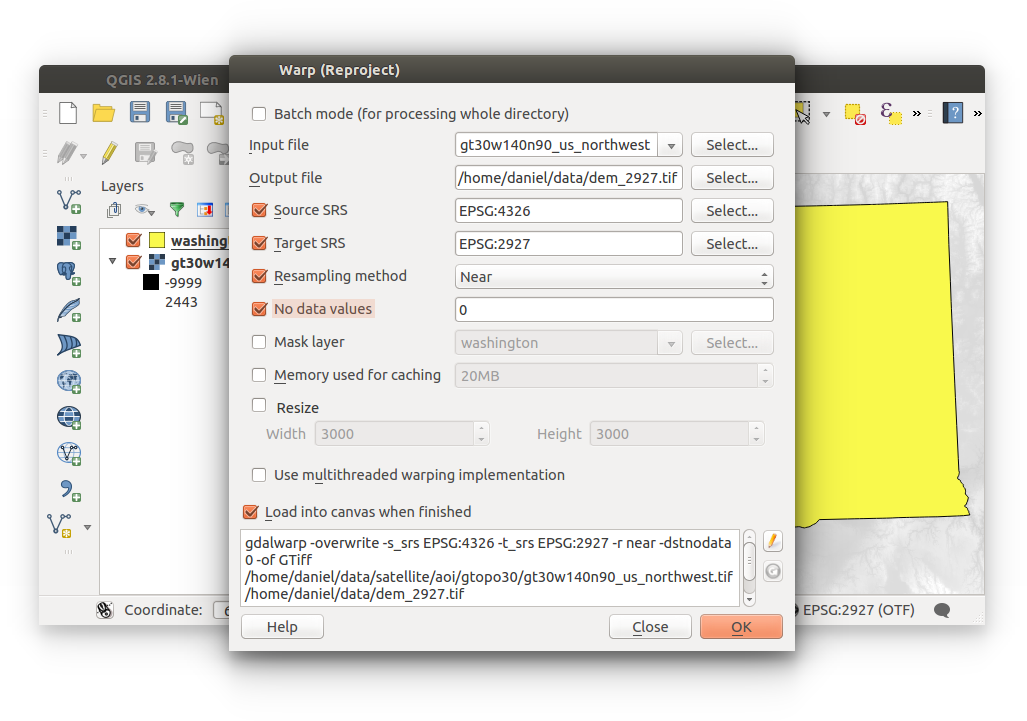
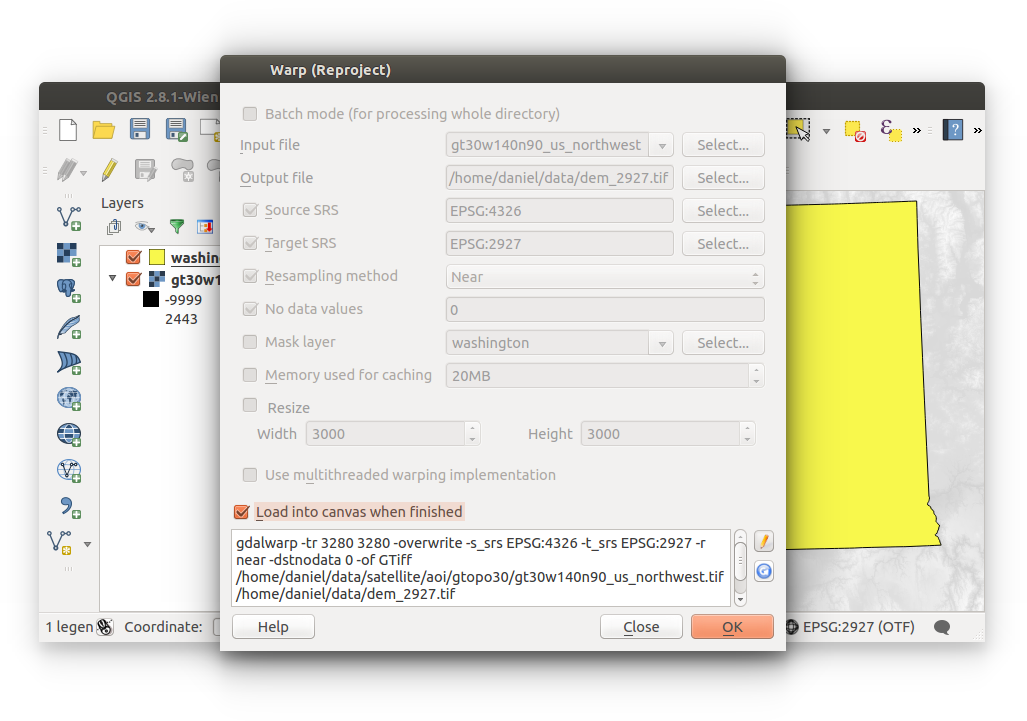
Updated formatting exercise

diff --git a/_posts/2002-03-01-formatting.md b/_posts/2002-03-01-formatting.md
@@ -20,6 +20,10 @@ tags : [wrangling, formatting]
 
 iRods access: <br>&nbsp;&nbsp;&nbsp;``/iplant/home/shared/aegis/Spatial-bootcamp/data-hygiene/data-formatting``
 
+<br>
+
+Download files:
+
 - [US state boundaries (USA_adm1.shp](http://de.iplantcollaborative.org/dl/d/A80AF5AA-C1FF-4487-AD9B-846E1429F908/USA_adm1.zip)
 - [US Northwest GTOPO30 DEM (gt30w140n90_us_northwest.tif)](http://de.iplantcollaborative.org/dl/d/57947D2C-2705-41B3-8190-6F130139BAEC/gt30w140n90_us_northwest.tif)
 
@@ -102,7 +106,12 @@ We are able to visualize the DEM in EPSG:2927 thanks to our 'on-the-fly' transfo
 <li>Target: <strong>EPSG:2927</strong></li>
 <li>Resampling Method: <strong>Near</strong></li>
 <li>No data values: <strong>0</strong></li>
-<li>Click <strong>OK</strong> to <em>run</em> the tool, click <strong>CLOSE</strong> to <em>close</em> the tool.</li>
+<li>We need to add a custom parameter into <a href="http://www.gdal.org/gdalwarp.html" target="_blank">gdalwarp</a>: <strong>Target Resolution</strong><br><br>
+By default, GTOPO30 is provided in <em>meters</em>, while <a href="http://spatialreference.org/ref/epsg/2927/" target="_blank">NAD83(HARN) / Washington South (ftUS)</a> (EPSG:2927) is in <em>US survey feet</em>. Rasters <em>must</em> have the <em>same</em> resolution for an analysis to be valid.<br><br>
+Next to the code at the bottom of the window, <em>Click the <strong>Edit tool</strong> <img src="{{BASE_PATH}}{{ASSET_PATH}}/images/gdalwarp-edit.png"/> icon </em>to enable editing the code:<br><br>
+It's best practice to declare a target resolution so we understand what we're working with. Below, we have calculated feet per kilometer: 3280 feet = 1 kilometer. Even though our projection is in US survey feet, we are still working with kilometers.<br><br>
+Add the following code (see the example below): <code>-tr 3280 3280</code><br><br><strong>Do not disable editing once finished</strong>. This will revert changes to the code and our target resolution will not be changed.<br><br>Click <strong>OK</strong> to <em>run</em> the tool, click <strong>CLOSE</strong> to <em>close</em> the tool.<img data-featherlight="{{BASE_PATH}}{{ASSET_PATH}}/images/gdalwarp-1.png" src="{{BASE_PATH}}{{ASSET_PATH}}/images/gdalwarp-1.png" alt="Spatial Data Bootcamp"/>
+</li>
 </ul>
 <img data-featherlight="{{BASE_PATH}}{{ASSET_PATH}}/images/formatting-6.png" src="{{BASE_PATH}}{{ASSET_PATH}}/images/formatting-6.png" alt="Spatial Data Bootcamp"/>
 </li>
@@ -110,8 +119,9 @@ We are able to visualize the DEM in EPSG:2927 thanks to our 'on-the-fly' transfo
 Open a new project, there's no need to save this current project.<br><br>
 Open the reprojected, or warpped DEM<br><br>
 The default projection should be EPSG:2927 (without 'on-the-fly' transformation), assuming everything went well.<br><br>
+You could also measure the pixels with the <strong>Measure tool</strong> <img src="{{BASE_PATH}}{{ASSET_PATH}}/images/measure-tool.png"/>.<br><br>
 <img data-featherlight="{{BASE_PATH}}{{ASSET_PATH}}/images/formatting-7.png" src="{{BASE_PATH}}{{ASSET_PATH}}/images/formatting-7.png" alt="Spatial Data Bootcamp" />
 </ol>
 
-<p>You should be able to extract a feature from a shapefile and warp (reproject) a raster.</p>
+<p>You should be able to: extract a feature from a shapefile; and warp (reproject) a raster while declaring a target resolution. Close the project without saving. <strong>dem_2927</strong> will be used in the <strong>Landslide Exercise</strong>.</p>
 
